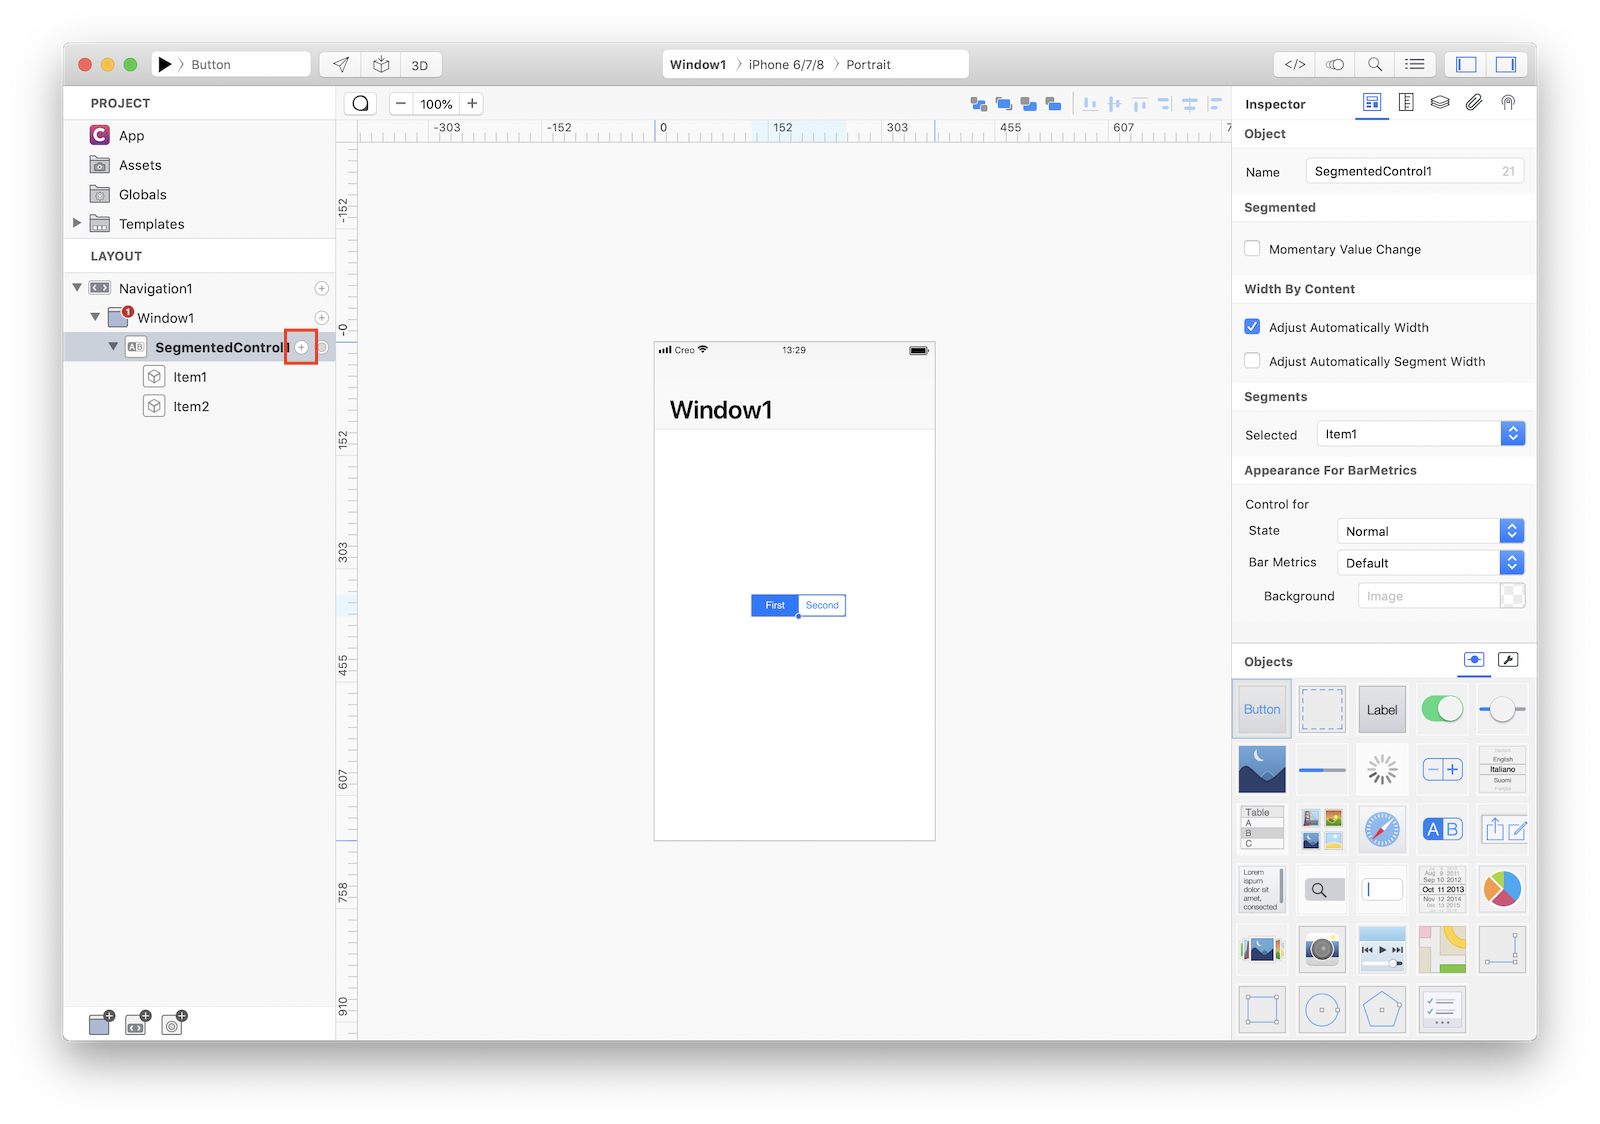
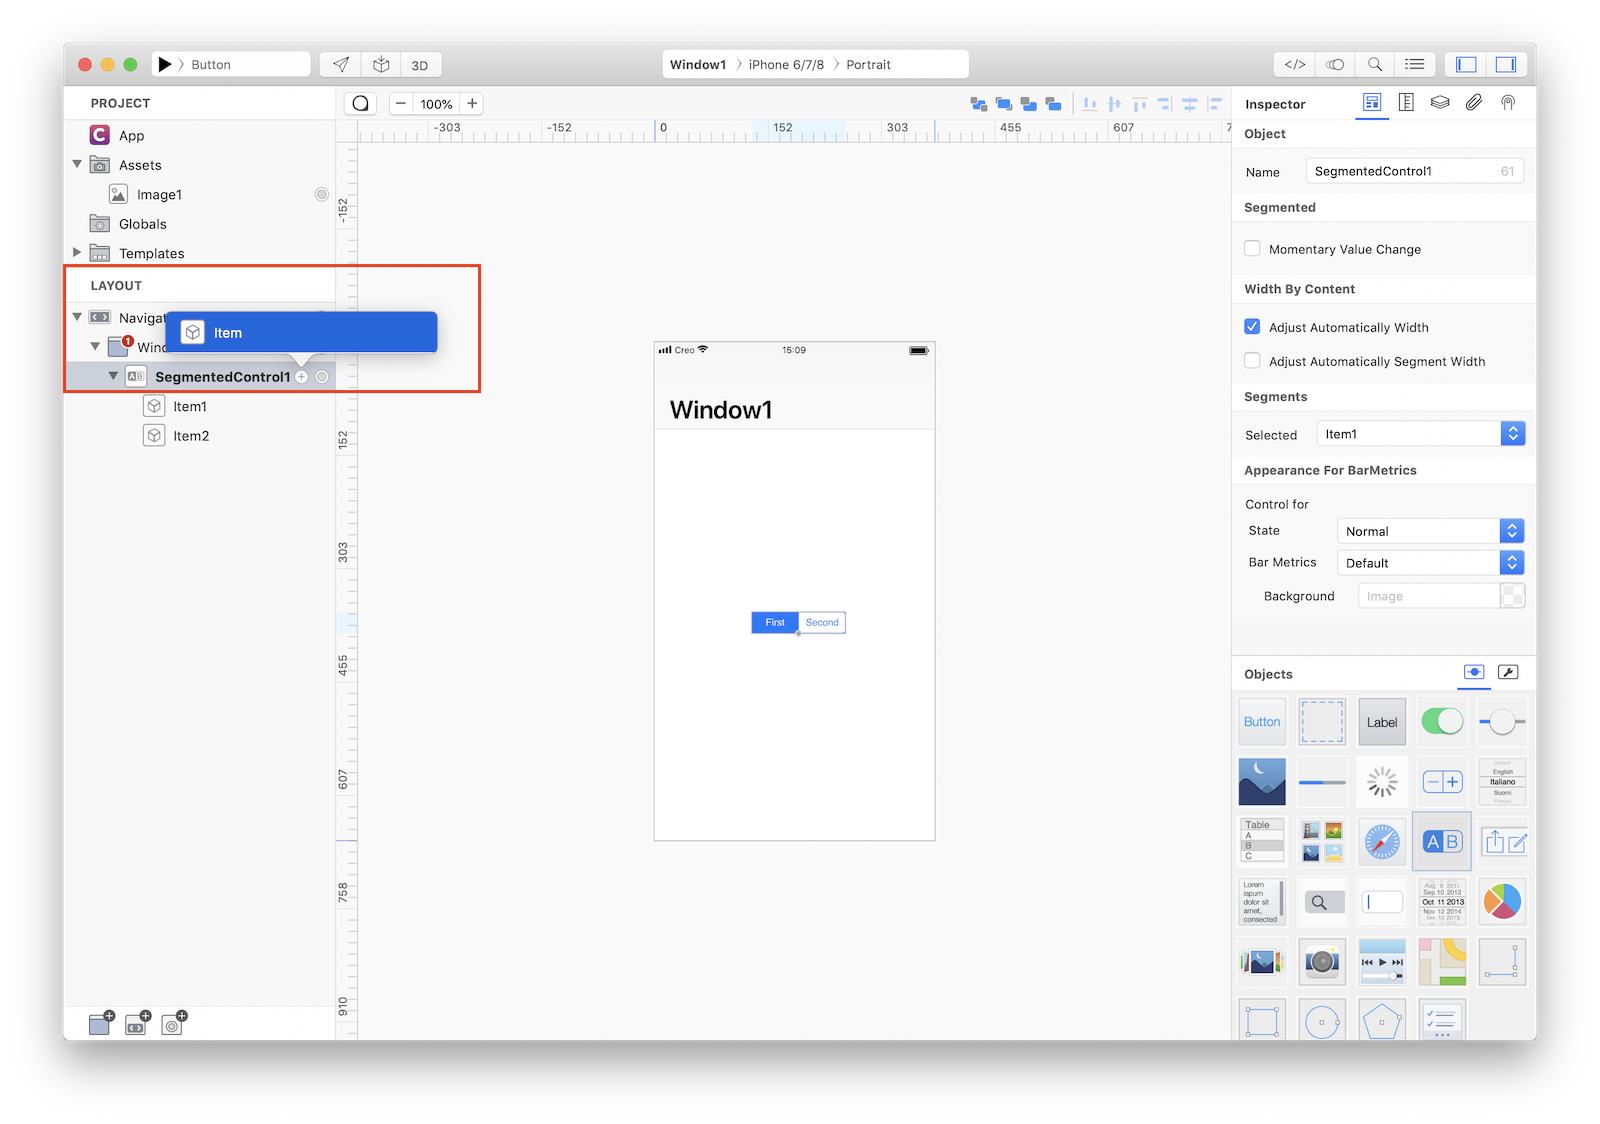
Improved SegmentedControl

Changed region(s): [[0.75, 0.5605, 0.9688, 0.9342], [0.0312, 0.1557, 0.2812, 0.4048], [0.4688, 0.5294, 0.5312, 0.5916]]

diff --git a/docs/drafts/SegmentedControl.md b/docs/drafts/SegmentedControl.md
@@ -10,7 +10,6 @@ A segmented control is a linear set of two or more segments, each of which funct
 
 ### How to use
 1. Drop a `SegmentedControl` control from the object panel to a `Window`
-2. Add one or more `SegmentedControl` items by clicking on the `+` button on the right side of the selected `SegmentedControl` item into the layout area
 3. Use the `SegmentedControlItem Inspector` to customize its properties like `Title` and `Image`
 
 If you need to write code for SegmentedControl:
@@ -18,14 +17,17 @@ If you need to write code for SegmentedControl:
 4. Open the `Code Editor` (cmd + 6)
 5. Select the `Action` item inside the `Events` area and write your custom code in the `Code Editor`
 
-![`Add` button where the user can add `SegmentedControl` items](images/segmentedcontrol4.png)
-The 'Add' button where the user can add `SegmentedControl` items.
-
 ![`SegmentedControl` inspector](images/segmentedcontrol2.png)
 The inspector where the `SegmentedControl` can be configured.
 
 ![`SegmentedControl` item inspector](images/segmentedcontrol3.png)
 The inspector where the `SegmentedControlItem` can be configured.
+
+### How to customize
+The `SegmentdControl` can be customized by tapping the subnode icons (+) in order to add one or more `SegmentedControlItem` objects.
+
+![`SegmentedControl` customizations](images/segmentedcontrol4.png)
+The `SegmentedControl` customizations.
 
 ### Example
 1. Open the `Code Editor` (cmd + 6)
